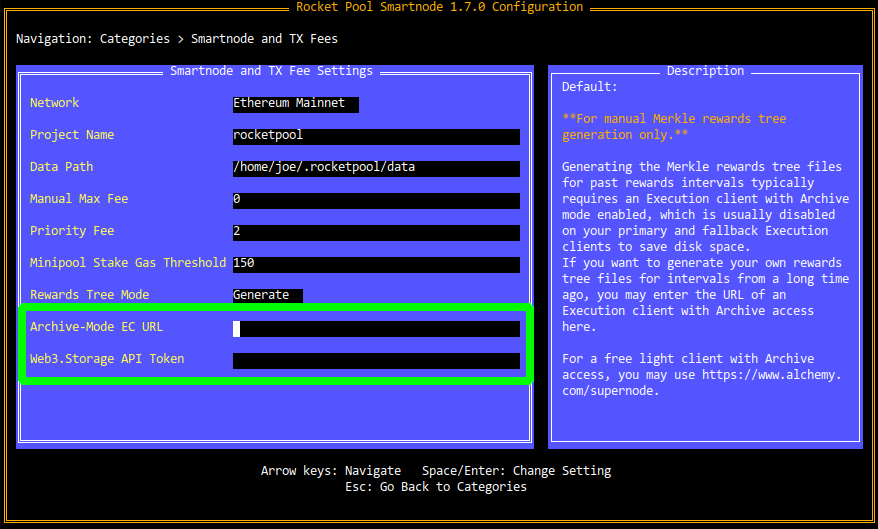
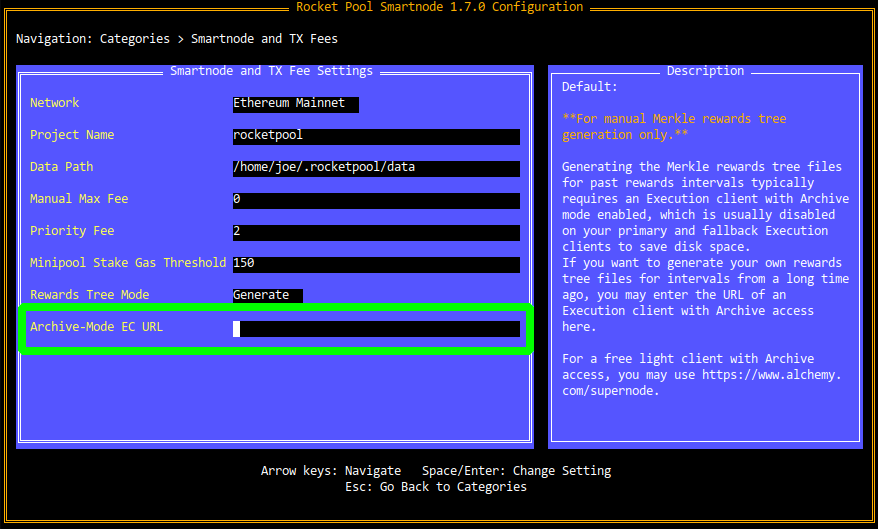
removing web3Storage references as raised in #74

Changed region(s): [[0.0, 0.6352, 0.615, 0.7259]]

diff --git a/docs/guides/odao/setup.md b/docs/guides/odao/setup.md
@@ -48,25 +48,19 @@ Here, you will see two options at the bottom:
 The `Archive-Mode EC URL` must be the HTTP endpoint of the RPC API for your Archive Execution Client.
 **Note that if you are already using your Archive EC as your primary client in Externally-Managed mode, you can ignore this setting.**
 
-The `Web3.Storage API Token` must be populated with the API Token for your Web3.Storage account, which you can find in your account settings.
-This will be required in order to upload your generated rewards tree artifacts to IPFS.
-
 
 ::::: tab (service config) Headlessly
 
 Run the following command to configure your node headlessly:
 
 ```
-rocketpool service config --smartnode-archiveECUrl "http://<your Archive EC URL>" --smartnode-web3StorageApiToken "<your web3.storage API token>"
+rocketpool service config --smartnode-archiveECUrl "http://<your Archive EC URL>"
 ```
 
 Where:
 
 - `--smartnode-archiveECUrl` must be the HTTP endpoint of the RPC API for your Archive Execution Client.
   **Note that if you are already using your Archive EC as your primary client in Externally-Managed mode, you can ignore this setting.**
-
-- `--smartnode-web3StorageApiToken` must be populated with the API Token for your Web3.Storage account, which you can find in your account settings.
-  This will be required in order to upload your generated rewards tree artifacts to IPFS.
 
 Finally, restart your `watchtower` daemon (i.e., with `docker restart rocketpool_watchtower` in Docker or Hybrid mode, or `sudo systemctl restart rp_watchtower` in Native mode) for the settings to take effect.
 
@@ -86,16 +80,12 @@ smartnode:
   priorityFee: "2"
   projectName: rocketpool
   rewardsTreeMode: generate
-  web3StorageApiToken: <your web3.storage API token>
 ```
 
-Replace the values in the `archiveECUrl` and `web3StorageApiToken` fields, where:
+Replace the values in the `archiveECUrl` field, where:
 
 - `archiveECUrl` must be the HTTP endpoint of the RPC API for your Archive Execution Client.
   **Note that if you are already using your Archive EC as your primary client in Externally-Managed mode, you can ignore this setting.**
-
-- `web3StorageApiToken` must be populated with the API Token for your Web3.Storage account, which you can find in your account settings.
-  This will be required in order to upload your generated rewards tree artifacts to IPFS.
 
 Finally, restart your `watchtower` daemon (i.e., with `docker restart rocketpool_watchtower` in Docker or Hybrid mode, or `sudo systemctl restart rp_watchtower` in Native mode) for the settings to take effect.
 

diff --git a/docs/guides/odao/overview.md b/docs/guides/odao/overview.md
@@ -34,7 +34,6 @@ To run an Oracle DAO node, you will require the following:
 - The Smartnode daemon configured and running in `watchtower` mode (this is included with the standard Smartnode bundle for all users, but only actively performs duties for Oracle DAO nodes).
   - This can be run in a Docker container (standard setup) or as a simple `systemd` service ("Native" mode).
 - Enough ETH to pay for the gas costs of your duties (discussed later).
-- A [web3.storage](https://web3.storage/) account, used for submitting the generated rewards tree artifacts to their IPFS pinning service.
 
 ::: warning NOTE
 If you simply cannot run an on-premises archive node and _must_ rely on a third-party service, consider the following:
